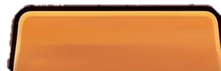
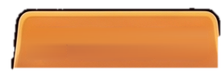
Okno ekwipunku: hover bez artefaktów — kotwice przycisków i zakładki wycięte bez tła
- eq_build_gui.py: AnchorPoint zakładek (0.5, 1), „+” i X (0.5, 0.5) — UIScale powiększa wokół kotwicy
- eq_slice.py: tryb tight dla zakładek (obrys tylko z ciemnych pikseli w grubości obrysu)
- 8 grafik EqTab* wgranych po akceptacji (nowe ID w manifeście)

Changed region(s): [[0.0271, 0.0563, 1.0, 1.0]]

diff --git a/tools/eq_slice.py b/tools/eq_slice.py
@@ -66,7 +66,7 @@ STATS = [("Strength", "STR", "DMG ~12", "20"), ("Constitution", "CONST", "HP 192
          ("Luck", "LUCK", "CRIT 8.75%", "7"), ("Armor", "ARMOR", "DMG RED 25%", "57")]
 
 
-def segment(arr, rect, seed, tol, grow):
+def segment(arr, rect, seed, tol, grow, tight=False):
     x0, y0, x1, y1 = rect
     crop = arr[y0:y1, x0:x1, :3].astype(np.int32)
     sx, sy = seed[0] - x0, seed[1] - y0
@@ -77,7 +77,32 @@ def segment(arr, rect, seed, tol, grow):
     body = ndimage.binary_fill_holes(body)
     body = ndimage.binary_closing(body, iterations=4)
     body = ndimage.binary_fill_holes(body)
-    mask = ndimage.binary_dilation(body, iterations=grow)  # obrys
+    if not tight:  # X i „+”: gładkie tło, obrys asymetryczny (gruby cień z prawej/dołu) -> zwykła dylatacja
+        mask = ndimage.binary_dilation(body, iterations=grow)
+        alpha = Image.fromarray((mask * 255).astype(np.uint8)).filter(ImageFilter.GaussianBlur(0.8))
+        rgba = Image.fromarray(arr[y0:y1, x0:x1, :3].astype(np.uint8)).convert("RGBA")
+        rgba.putalpha(alpha)
+        return rgba
+    # zakładki: obrys = tylko CIEMNE piksele wokół korpusu. Sama dylatacja łapała też tło (beżową listwę ramki pod zakładką,
+    # słoje drewna nad nią) – niewidoczne w miejscu, ale wystające poza obrys po powiększeniu przy hoverze.
+    dark = crop.max(-1) < 70  # czarny obrys (ciemnobrązowe deski tła mają max ~90)
+    # grubość obrysu: mediana długości ciemnego odcinka nad górną krawędzią korpusu (środkowe 60% szerokości)
+    ys, xs = np.nonzero(body)
+    runs = []
+    for x in range(int(np.percentile(xs, 20)), int(np.percentile(xs, 80))):
+        col = np.nonzero(body[:, x])[0]
+        if not len(col):
+            continue
+        y, n = col.min() - 1, 0
+        while y >= 0 and dark[y, x]:
+            n, y = n + 1, y - 1
+        runs.append(n)
+    thick = max(3, min(grow, int(np.median(runs)) if runs else grow))
+    # dalej od korpusu niż obrys = tło (kreski desek, beżowa listwa) -> poza maską
+    dist = ndimage.distance_transform_edt(~body)
+    ring = dark & (dist <= thick + 0.5)
+    mask = ndimage.binary_fill_holes(ndimage.binary_closing(body | ring, iterations=1))
+    mask = ndimage.binary_opening(mask, iterations=1) | body
     alpha = Image.fromarray((mask * 255).astype(np.uint8)).filter(ImageFilter.GaussianBlur(0.8))
     rgba = Image.fromarray(arr[y0:y1, x0:x1, :3].astype(np.uint8)).convert("RGBA")
     rgba.putalpha(alpha)
@@ -120,7 +145,7 @@ def main():
 
     sprites = {}
     for name, (rect, seed, tol, grow) in SPRITES.items():
-        img = segment(sprite_arr, rect, seed, tol, grow)
+        img = segment(sprite_arr, rect, seed, tol, grow, tight=name.startswith("EqTab"))
         img = img.resize((max(1, round(img.width * scale)), max(1, round(img.height * scale))), Image.LANCZOS)
         img.save(OUT / f"{name}.png")
         sprites[name] = norm(rect)

diff --git a/tools/eq_build_gui.py b/tools/eq_build_gui.py
@@ -103,10 +103,16 @@ def hotspot(name, r, parent=None, round_=0.12, circle=False, cover_=None):
     ])
 
 
-def sprite_button(name, r, img_name, children=None, parent=None):
+def sprite_button(name, r, img_name, children=None, parent=None, anchor=(0.5, 0.5)):
+    """anchor = punkt, wokół którego UIScale powiększa przycisk przy hoverze (Roblox skaluje względem AnchorPoint).
+    Domyślnie środek; zakładki: środek dolnej krawędzi, żeby podstawa nie odjeżdżała od panelu."""
     img, attrs = image(img_name)
     kids = [node("UIScale", "UIScale", {"Scale": 1})] + (children or [])
-    return node(name, "ImageButton", {**rel(r, parent), "BackgroundTransparency": 1, "Image": img,
+    props = rel(r, parent)
+    (xs, _), (ys, _) = props["Position"]["UDim2"]
+    (ws, _), (hs, _) = props["Size"]["UDim2"]
+    props["Position"] = {"UDim2": [[round(xs + ws * anchor[0], 5), 0], [round(ys + hs * anchor[1], 5), 0]]}
+    return node(name, "ImageButton", {**props, "AnchorPoint": list(anchor), "BackgroundTransparency": 1, "Image": img,
                                       "ScaleType": "Stretch", "AutoButtonColor": False}, kids, attrs)
 
 
@@ -135,7 +141,8 @@ def main():
         out = []
         for i, n in enumerate(names):
             lab = L["texts"][n.replace("Eq", "") + "Label"]
-            btn = sprite_button(n.replace("Eq", ""), S[n], n, [text("Label", lab[0], lab[1], style, S[n])])
+            btn = sprite_button(n.replace("Eq", ""), S[n], n, [text("Label", lab[0], lab[1], style, S[n])],
+                                anchor=(0.5, 1))
             btn["Properties"]["LayoutOrder"] = i + 1
             out.append(btn)
         return full(group, out)

diff --git a/B&C/Produkcja/Dziennik zmian.md b/B&C/Produkcja/Dziennik zmian.md
@@ -6,6 +6,11 @@ tags: [produkcja, dziennik]
 
 Najnowsze na górze. Każdy wpis: data, kto, co się zmieniło, które pliki i notatki.
 
+## 2026-11-14 · Claude Code (okno ekwipunku: hover przycisków)
+- Zgłoszenie Game Directora: po najechaniu przycisk był „źle przycięty, coś wystaje za obrys”. Dwie przyczyny: (1) `UIScale` powiększa względem `AnchorPoint`, a przyciski miały (0, 0), więc zjeżdżały w prawo i w dół na ramkę; (2) maska sprite'ów zakładek (sama dylatacja) łapała tło – beżową listwę pod zakładką i kreski desek nad nią.
+- `tools/eq_build_gui.py`: `AnchorPoint` zakładek (0.5, 1), „+” i X (0.5, 0.5), pozycje przeliczone. `tools/eq_slice.py`: tryb `tight` dla zakładek – obrys to tylko ciemne piksele w odległości grubości obrysu (mierzonej nad korpusem); X i „+” po staremu (obrys asymetryczny). `layout.json` bez zmian.
+- 8 grafik `EqTab*` wgranych po „tak” Game Directora (nowe ID w manifeście), podpięte w pliku i w miejscu z chmury; test Play: wszystkie wczytane, hover OTHERS / DESCRIPTION czysty.
+
 ## 2026-11-15 · Claude Code u Karola (południe: gołe modele i strój, lista „Prace w toku”, akceptacje Karola)
 - **Gołe modele i strój jako przedmioty (D-071):** [[Rycerz]], [[Kot-Mag]] i [[Zwiadowca]] mają ciała bazowe (ludzie w lnianej koszuli i krótkich spodenkach, kot w samym futrze), a dzisiejszy wygląd to komplet przedmiotów zakładanych na model: Rycerz 8 (tarcza poza pełnym strojem — widać ją tylko, gdy jest założona), Zwiadowca 8, Kot-Mag 4. Zasady w `swiat/postacie/EKWIPUNEK.md`; plansze, filmy w strojach, gołe ciała i części przedmiotów w `swiat/postacie/wynik/<id>/ekwipunek/`. Zgodność wstecz sprawdzona (te same kości, klipy i bryły; pełny strój wygląda jak dotąd). Niezależny przegląd usunął migotanie spodenek pod pasem i połami. Raport „Gołe modele i strój jako przedmioty (D-071)” czeka w panelu. W Roblox Studio jeszcze niesprawdzone.
 - **Do decyzji ludzi:** spodnie jako część zbroi czy osobny slot; łuk Zwiadowcy z kołczanem w drugiej ręce i peleryna razem z kapturem; goły Rycerz i kot po upadku leżą ok. 0,2 studa nad ziemią (osobny klip czy przesunięcie w grze).

diff --git a/B&C/UI/Okno ekwipunku.md b/B&C/UI/Okno ekwipunku.md
@@ -37,6 +37,7 @@ Statystyki na grafice (Strength, Constitution, Intelligence, Dexterity, Luck, Ar
 - [x] Karty v4 (każda kolumna z własnymi granicami) wgrane: `EqBg3` 134448521798525 (2026-11-13)
 - [x] Zasłonka sylwetki w slotach ekwipunku: natywna ramka `Cover` w kolorze wnętrza slotu, widoczna tylko z przedmiotem (`ZIndex` 1, ikona 2). Test Play OK (2026-11-13)
 - [x] Rozmiary napisów: statystyki 15 px, zakładki postaci 16 px, zakładki plecaka 20 px (2026-11-14)
+- [x] Hover bez artefaktów (2026-11-14): przyciski powiększają się wokół środka (zakładki: wokół środka dolnej krawędzi, podstawa zostaje przy panelu), 8 zakładek wyciętych od nowa bez kawałków tła (`tools/eq_slice.py`, tryb `tight`) i wgranych po „tak” Game Directora; X i „+” bez zmian
 - [ ] Test na telefonie (Device Emulator)
 - [ ] Prawdziwe dane: przedmioty w slotach, statystyki z serwera, portret postaci
 
